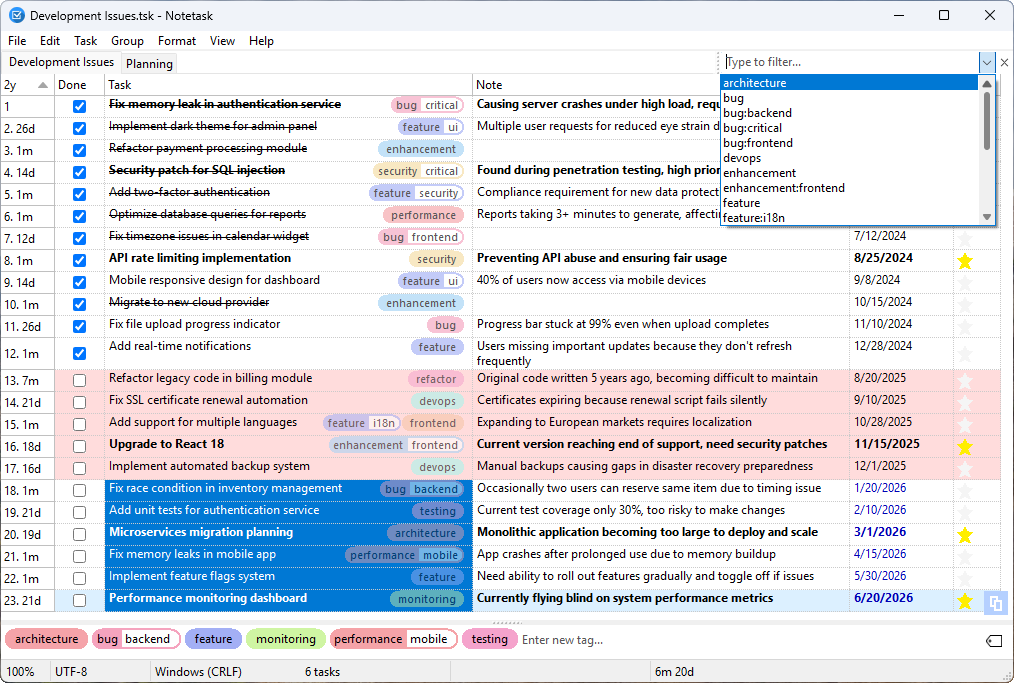
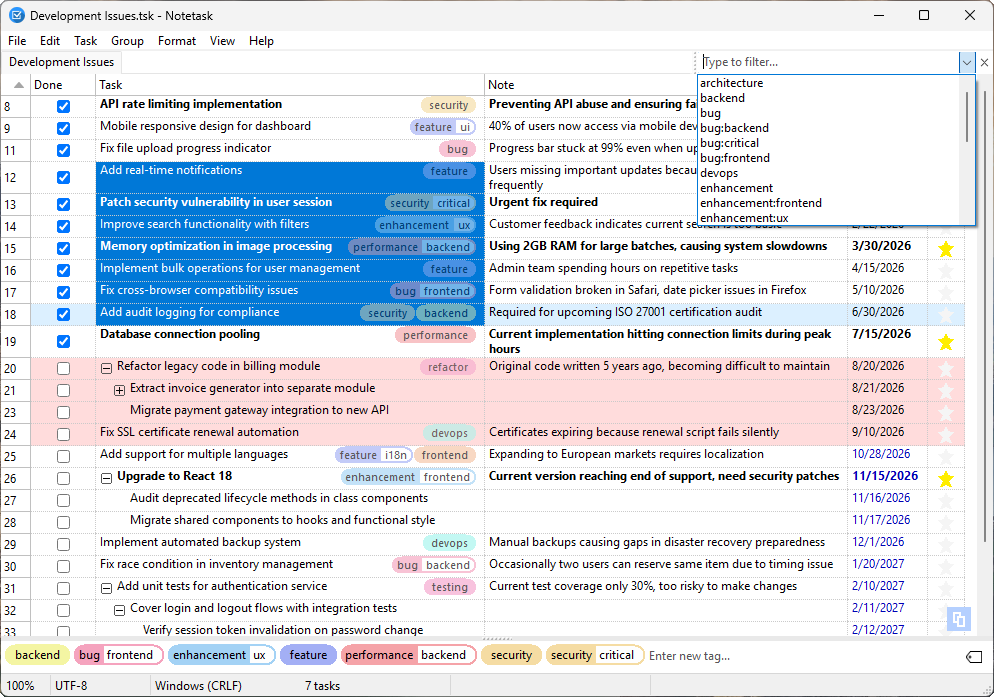
Update README.md

diff --git a/README.md b/README.md
@@ -95,6 +95,16 @@ Supports advanced features such as executing selected comments, tasks, or the en
 
 ![powershell](samples/powershell.png)
 
+## Task hierarchy
+
+**Notetask** supports nested tasks, so you can build a hierarchy of subtasks under any parent item. Simply add 2 leading spaces before the task text to create one level of indentation — deeper levels are added by another 2 spaces per level.
+
+Parent tasks with children get a small collapse button in the task column. Click it (or press `Ctrl+Enter`) to fold the subtree and keep large lists compact; click again to expand. The collapsed state is preserved in the file, so the same view is restored the next time you open it.
+
+Indent and outdent are done with the keyboard: press `Ctrl+Tab` to push the selected tasks one level down, and `Shift+Tab` to lift them one level up. Moving a parent task automatically moves its whole subtree with it.
+
+![sample5](samples/sample5.png)
+
 ### Encryption
 
 Notetask can encrypts files using AES-256 in CBC mode with a key derived via PBKDF2-HMAC-SHA256. The derived 64-byte key is split into a 32-byte encryption key and a 32-byte HMAC key. Files are compressed using zlib before encryption, and a SHA-256 HMAC over the salt, IV, and ciphertext ensures integrity and authenticity.
